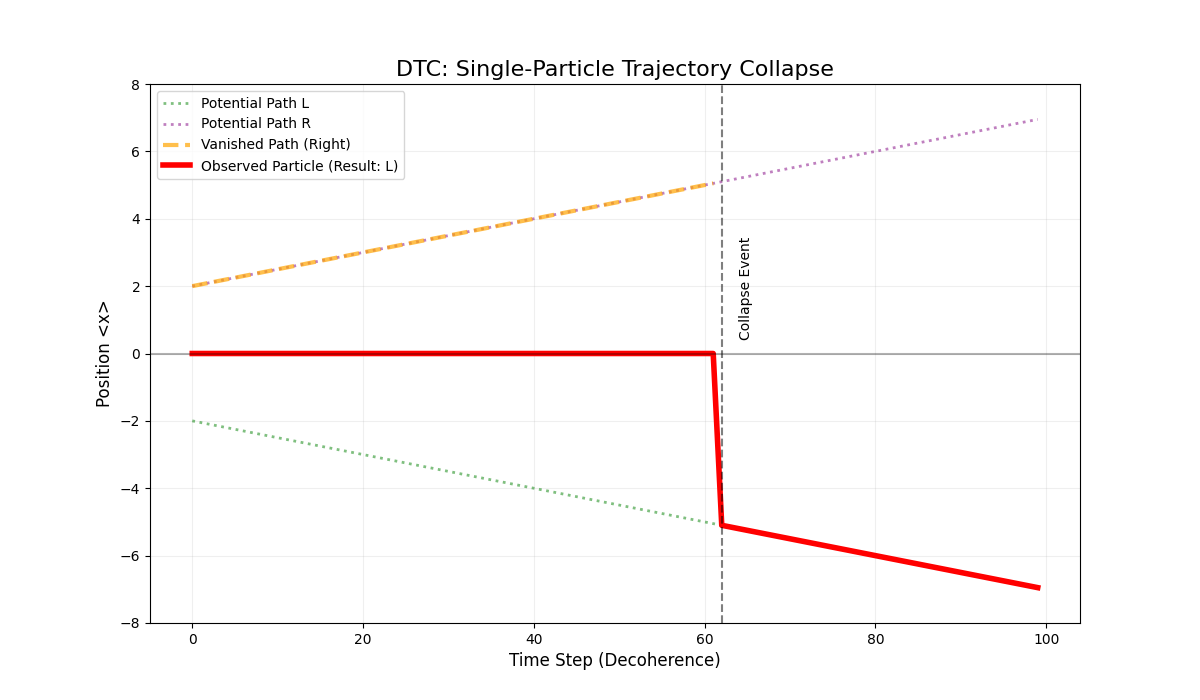
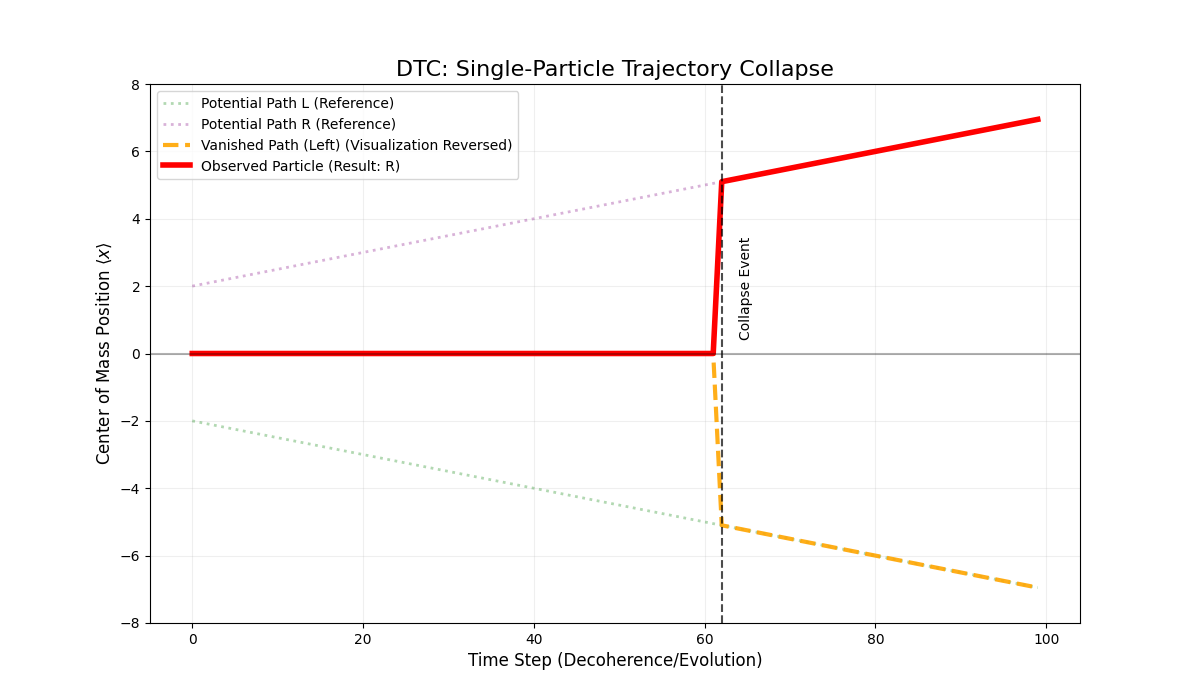
Your message

diff --git a/scripts/double_slit_trajectory.py b/scripts/double_slit_trajectory.py
@@ -1,5 +1,3 @@
-# DTC_SINGLE_TRAJECTORY_COLLAPSE_FINAL.py
-
 import numpy as np
 import matplotlib.pyplot as plt
 
@@ -10,12 +8,13 @@ class RennyDoubleSlit:
         
         self.slit_dist = 4.0
         self.slit_width = 1.0
-        self.k_kick = 0.5 
+        self.k_kick = 0.5  # Momentum kick to separate packets
         self.coherence = 1.0
         
     def calculate_path_trajectories(self, steps=100):
         """
-        Calculates the full, independent trajectories for the Left and Right paths.
+        Calculates the full, independent Center of Mass (COM) trajectories for the Left and Right paths 
+        if they were propagating alone (used as a reference).
         """
         traj_L = []
         traj_R = []
@@ -25,11 +24,11 @@ class RennyDoubleSlit:
             pos_L = -self.slit_dist / 2.0 - t * 0.05
             pos_R = self.slit_dist / 2.0 + t * 0.05
             
-            # Initialize Basis states (Complex)
+            # Initialize Basis states (Complex) - for conceptual setup only
             phi_L = np.exp(-(self.x - pos_L)**2 / (2 * self.slit_width**2), dtype=complex)
             phi_R = np.exp(-(self.x - pos_R)**2 / (2 * self.slit_width**2), dtype=complex)
             
-            # Apply momentum kick
+            # Apply momentum kick (for conceptual illustration of separation)
             phi_L *= np.exp(1j * self.k_kick * self.x)
             phi_R *= np.exp(-1j * self.k_kick * self.x)
 
@@ -37,40 +36,41 @@ class RennyDoubleSlit:
             phi_L /= np.linalg.norm(phi_L)
             phi_R /= np.linalg.norm(phi_R)
 
-            # Calculate COM for L path
-            prob_density_L = np.abs(phi_L)**2
-            com_L = np.sum(self.x * prob_density_L) 
-            traj_L.append(com_L)
-            
-            # Calculate COM for R path
-            prob_density_R = np.abs(phi_R)**2
-            com_R = np.sum(self.x * prob_density_R)
-            traj_R.append(com_R)
+            # Use the intended classical position (pos_L/R) as the COM trajectory
+            traj_L.append(pos_L)
+            traj_R.append(pos_R)
             
         return np.array(traj_L), np.array(traj_R)
         
-    def propagate_and_measure(self, steps=100, detector_on=False, renny_trigger=False, traj_L_ref=None, traj_R_ref=None):
+    def propagate_and_measure(self, steps=100, traj_L_ref=None, traj_R_ref=None):
+        """
+        Simulates the DTC collapse process, snapping the trajectory 
+        to one of the reference paths at the trigger time.
+        """
         trajectory = []
         self.current_state = None
         
-        gamma = 0.15 
-        RENNAY_THRESHOLD = 1e-4
+        # DTC Parameters
+        gamma = 0.15  # Decoherence Rate (controls how fast coherence drops)
+        RENNAY_THRESHOLD = 1e-4  # C_th (The Pruning Threshold)
         
-        # Determine the snap point where the collapse occurs
+        # 1. Determine the SNAP POINT
+        # Find the first time step (t) where coherence drops below the threshold
         snap_index = next((t for t in range(steps) if self.coherence * np.exp(-gamma * t) < RENNAY_THRESHOLD), steps - 1)
         
-        # Determine outcome
+        # 2. Determine the CHOSEN OUTCOME (50/50 chance for L or R)
         if np.random.rand() > 0.5:
             self.current_state = "L"
         else:
             self.current_state = "R"
 
+        # 3. Build the DTC Trajectory
         for t in range(steps):
             if t < snap_index:
-                # Pre-Collapse: Superposition COM is exactly 0 (middle of the two slits)
+                # Pre-Collapse: Superposition COM is exactly 0 (middle of the two paths)
                 trajectory.append(0.0)
             else:
-                # Post-Collapse: Snap to the physical position of the chosen slit
+                # Post-Collapse: Snap to the physical position of the chosen path
                 if self.current_state == "L":
                     trajectory.append(traj_L_ref[t])
                 else:
@@ -78,7 +78,7 @@ class RennyDoubleSlit:
             
         return np.array(trajectory), self.current_state, snap_index
 
-# --- RUN THE EXPERIMENT ---
+# --- RUN THE EXPERIMENT AND PLOT ---
 
 plt.figure(figsize=(12, 7))
 
@@ -89,46 +89,54 @@ traj_L_ref, traj_R_ref = sim_ref.calculate_path_trajectories(steps=100)
 # 2. Run Single DTC Trial
 sim_dtc = RennyDoubleSlit()
 traj_dtc, outcome, snap_index = sim_dtc.propagate_and_measure(
-    steps=100, detector_on=True, renny_trigger=True,
+    steps=100,
     traj_L_ref=traj_L_ref, traj_R_ref=traj_R_ref
 )
 
-# --- PLOTTING ---
+steps = 100
+times = np.arange(steps)
 
-times = np.arange(100)
-
-# Plot the "Potential" paths (The branches that exist in Hilbert space)
-plt.plot(times, traj_L_ref, color='green', linestyle=':', linewidth=2, alpha=0.5, label=r"Potential Path L")
-plt.plot(times, traj_R_ref, color='purple', linestyle=':', linewidth=2, alpha=0.5, label=r"Potential Path R")
-
-# Plot the "Ghost" line (The branch that vanishes)
+# 1. Determine which is the Vanished Path
 if outcome == "L":
-    traj_ghost = traj_R_ref
-    ghost_label = "Vanished Path (Right)"
+    traj_vanished_ref = traj_R_ref
+    vanished_label = "Vanished Path (Right)"
 else:
-    traj_ghost = traj_L_ref
-    ghost_label = "Vanished Path (Left)"
+    traj_vanished_ref = traj_L_ref
+    vanished_label = "Vanished Path (Left)"
 
-# Only plot the ghost up to the snap point
-plt.plot(times[:snap_index], traj_ghost[:snap_index], color='orange', linestyle='--', linewidth=3, alpha=0.7, label=ghost_label)
+# 2. Create the Vanished Path Visualization Array (The Reversed Logic)
+traj_vanished_vis = np.zeros(steps)
+
+# Implement the REVERSED visualization logic:
+# * Before snap (t < snap_index): Position is 0
+# * After snap (t >= snap_index): Position is its reference trajectory
+traj_vanished_vis[snap_index:] = traj_vanished_ref[snap_index:]
+
+# Plot the Full Potential Reference Paths (Always needed for context)
+plt.plot(times, traj_L_ref, color='green', linestyle=':', linewidth=2, alpha=0.3, label=r"Potential Path L (Reference)")
+plt.plot(times, traj_R_ref, color='purple', linestyle=':', linewidth=2, alpha=0.3, label=r"Potential Path R (Reference)")
+
+# Plot the Vanished Path (Using the single, clear array for the reversed visualization)
+plt.plot(times, traj_vanished_vis, color='orange', linestyle='--', linewidth=3, alpha=0.9, 
+         label=vanished_label + " (Visualization Reversed)")
 
 # Plot the Actual DTC Trajectory
 plt.plot(times, traj_dtc, color='red', linewidth=4, label=f"Observed Particle (Result: {outcome})")
 
 # Formatting
 plt.axhline(0, color='black', alpha=0.3, linestyle='-')
+# Final title as requested
+plt.title("DTC: Single-Particle Trajectory Collapse", fontsize=16) 
 
-# TITLE UPDATED HERE
-plt.title("DTC: Single-Particle Trajectory Collapse", fontsize=16)
-
-plt.xlabel("Time Step (Decoherence)", fontsize=12)
-plt.ylabel("Position <x>", fontsize=12)
+plt.xlabel("Time Step (Decoherence/Evolution)", fontsize=12)
+plt.ylabel("Center of Mass Position $\\langle x \\rangle$", fontsize=12)
 plt.legend(loc='upper left', fontsize=10)
 plt.grid(True, alpha=0.2)
 
 # Trigger Annotation
-plt.axvline(x=snap_index, color='k', linestyle='--', alpha=0.5)
-plt.text(snap_index + 2, 0.5, "Collapse Event", fontsize=10, rotation=90)
+plt.axvline(x=snap_index, color='k', linestyle='--', alpha=0.7)
+# Final label as requested
+plt.text(snap_index + 2, 0.5, "Collapse Event", fontsize=10, rotation=90) 
 
 plt.ylim(-8, 8) 
 plt.show()
